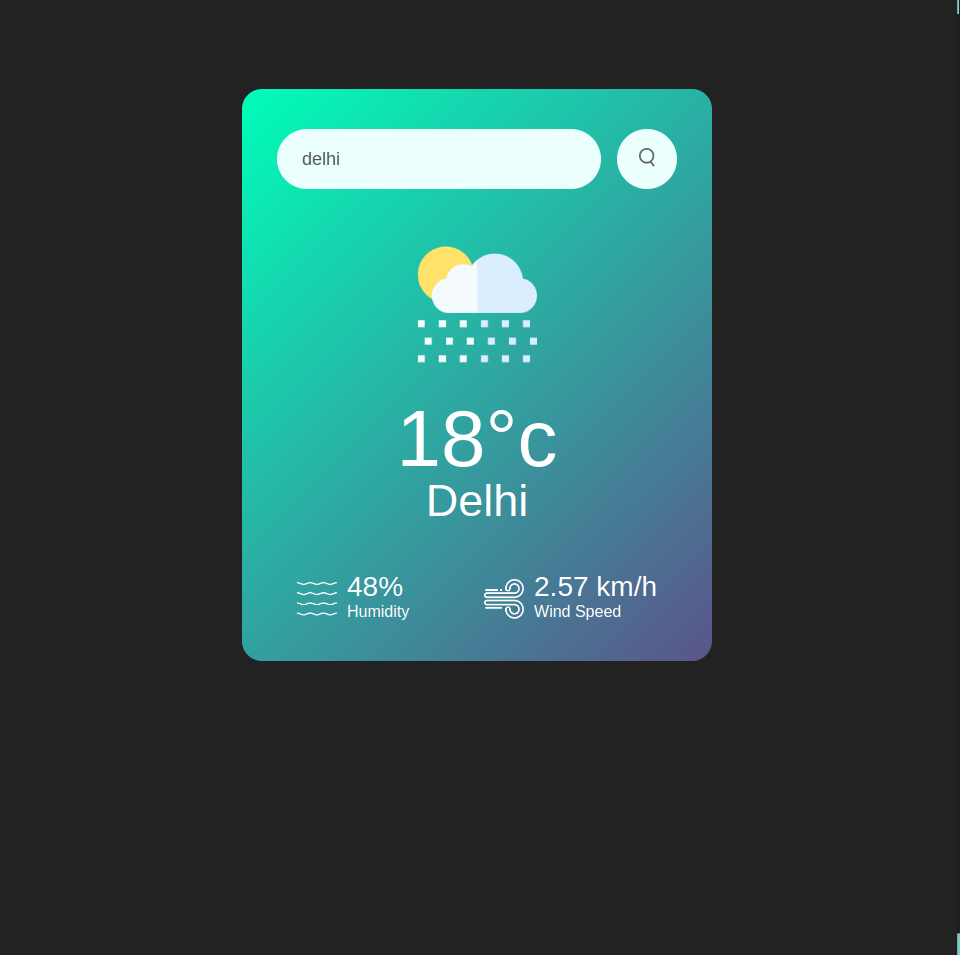
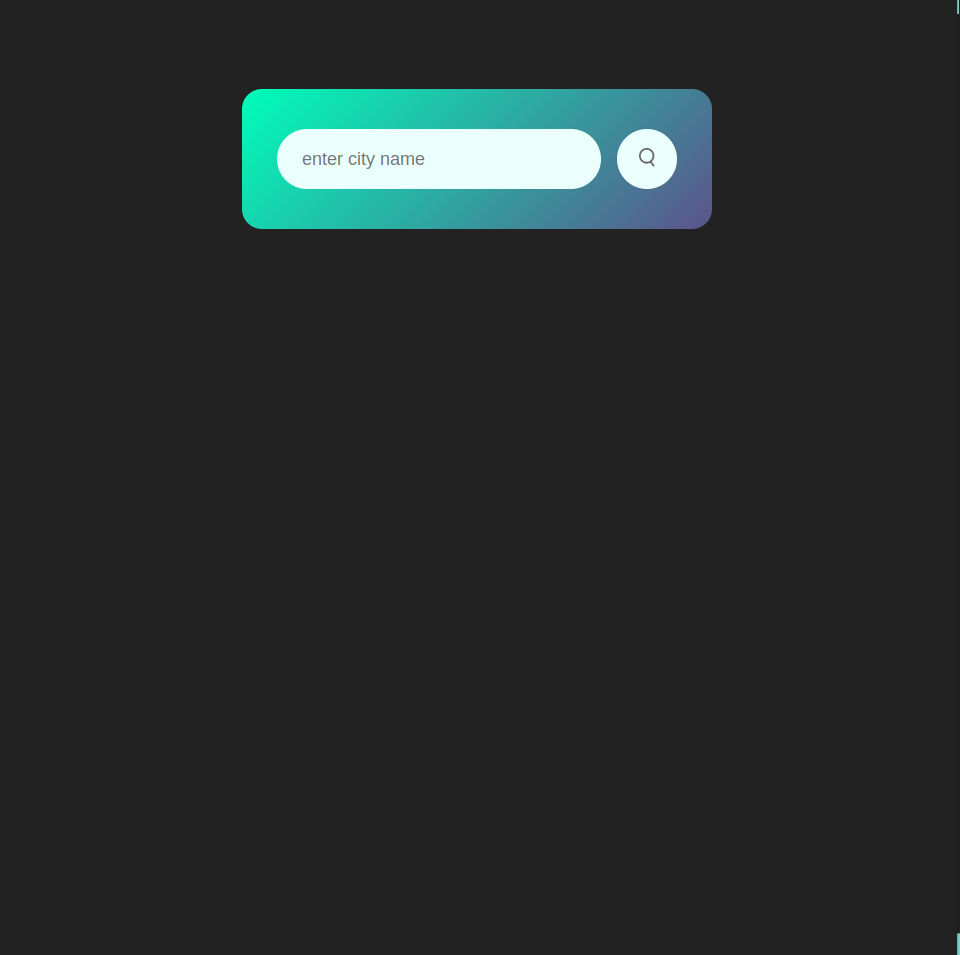
when we refresh then contents should disappear and it should only appear when we search any city by its name

Changed region(s): [[0.25, 0.0911, 0.75, 0.6984]]

diff --git a/index.html b/index.html
@@ -49,7 +49,6 @@
         const response = await fetch(apiUrl + city + `&appid=${apiKey}`);
         var data = await response.json();
 
-        console.log(data);
         document.querySelector(".city").innerHTML = data.name;
         document.querySelector(".temp").innerHTML = Math.round(data.main.temp) + '°c';
         document.querySelector(".humidity").innerHTML = data.main.humidity + '%';
@@ -67,6 +66,11 @@
         } else if(data.weather[0].main === "Mist"){
           weatherIcon.src = "images/mist.png";
         }
+
+
+
+        // if this code is not written then we will not be able to search any city as in weather class display will be always none
+        document.querySelector(".weather").style.display = "block";
       }
 
       searchBtn.addEventListener("click",()=>{

diff --git a/style.css b/style.css
@@ -96,3 +96,7 @@ body{
     font-size: 28px;
     margin-top: -6px;
 }
+
+.weather{
+    display: none;
+}
